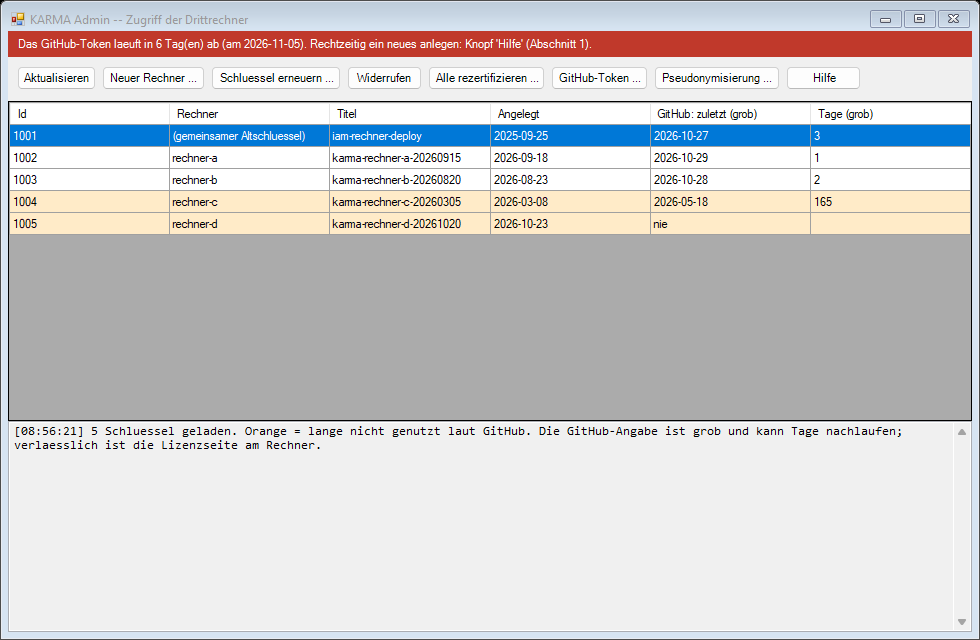
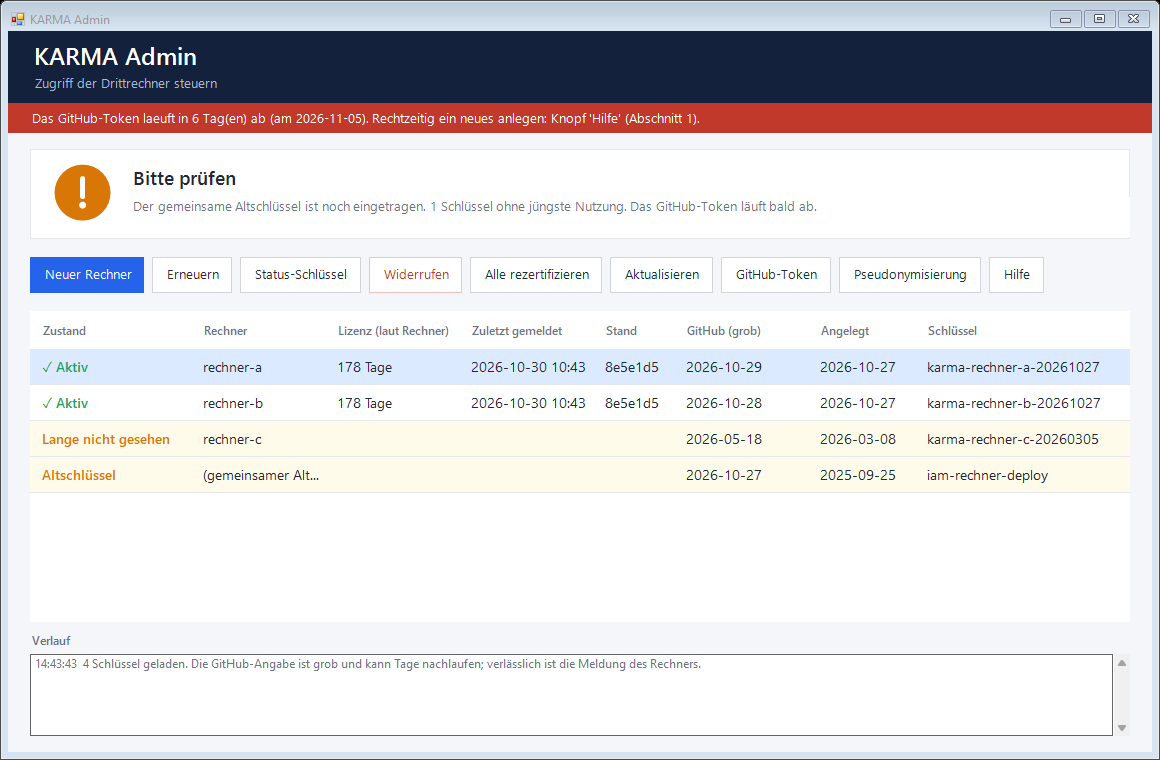
sync: iam-Doku aktualisiert (8e7250fa007da61be9ea9e4cd0e8c06da591e340)

diff --git a/iam-en/docs_en/technik/windows-native.md b/iam-en/docs_en/technik/windows-native.md
@@ -134,7 +134,7 @@ already installed application keeps running until then. It removes nothing from 
 
 ![KARMA Admin: list of keys with "last used" and token notice](../_static/zugriff/admin-01-fenster.png)
 
-*Orange rows: keys that GitHub reports as used long ago or never. The red bar appears 10 days before the token expires. All names in the picture are examples. The admin application itself is available in German only.*
+*The card at the top shows at a glance whether everything is fine (green check mark) or needs attention. Orange rows: keys that GitHub reports as used long ago or never. The red bar appears 10 days before the token expires. All names in the picture are examples. The admin application itself is available in German only.*
 
 **What the user sees**
 

diff --git a/iam/docs/technik/windows-native.md b/iam/docs/technik/windows-native.md
@@ -136,7 +136,7 @@ die bereits installierte Anwendung läuft bis dahin weiter. Er entfernt nichts v
 
 ![KARMA Admin: Liste der Schlüssel mit „zuletzt genutzt“ und Token-Hinweis](../_static/zugriff/admin-01-fenster.png)
 
-*Orange Zeilen: Schlüssel, die laut GitHub lange oder nie genutzt wurden. Die rote Leiste erscheint 10 Tage vor Ablauf des Tokens. Alle Namen im Bild sind Beispiele.*
+*Die Karte oben zeigt auf einen Blick, ob alles in Ordnung ist (grüner Haken) oder etwas Aufmerksamkeit braucht. Orange Zeilen: Schlüssel, die laut GitHub lange oder nie genutzt wurden. Die rote Leiste erscheint 10 Tage vor Ablauf des Tokens. Alle Namen im Bild sind Beispiele.*
 
 **Was der Anwender sieht**
 
